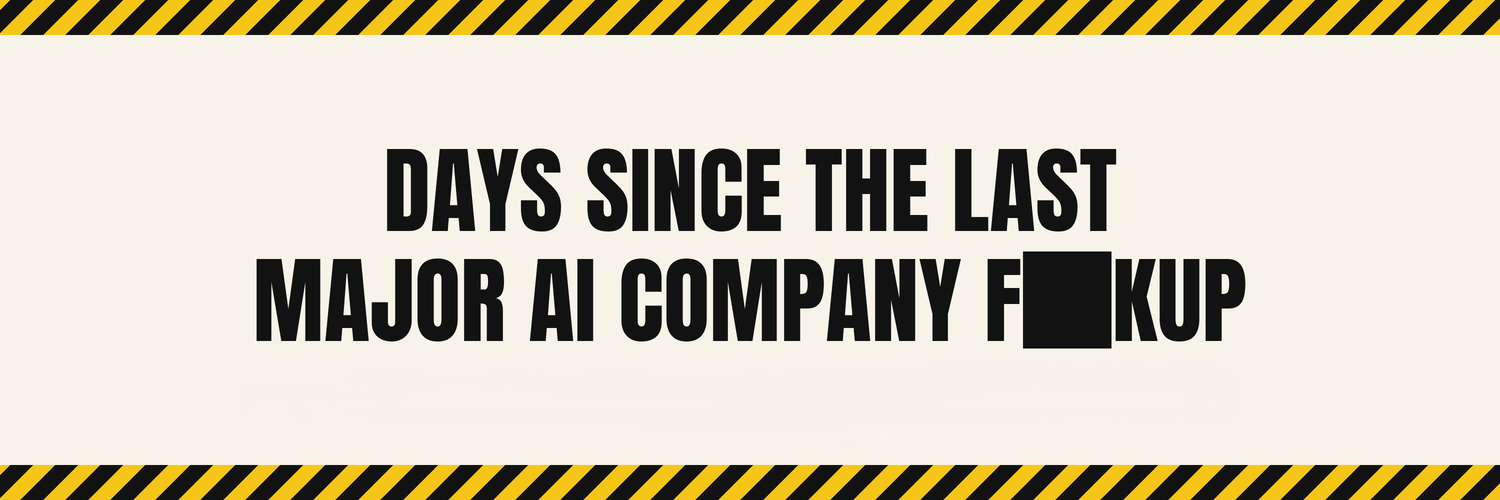
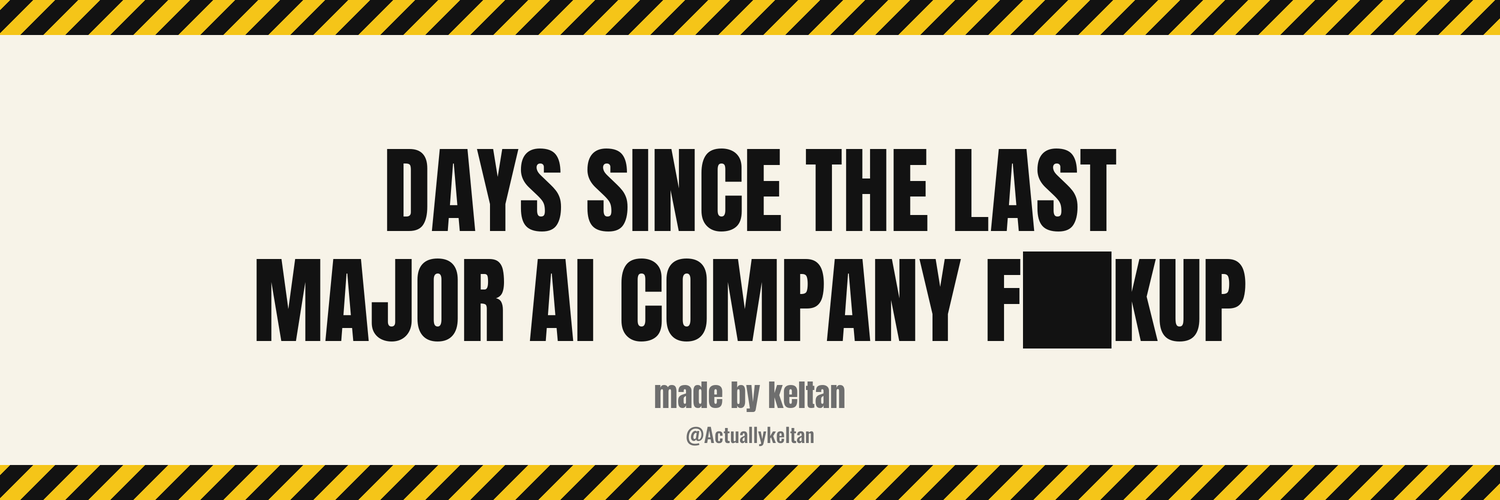
Bake keltan's header byline into the generator
He replaced the tagline with "made by keltan / @Actuallykeltan" by hand. Any
run of profile_assets.py would have overwritten that, so it now generates it -
cleanly, without the ghost of the old tagline showing through, and as a PNG
rather than a JPEG on flat cream.

Also stops tracking the detector's transient output.

Changed region(s): [[0.4293, 0.75, 0.5827, 0.9]]

diff --git a/profile_assets.py b/profile_assets.py
@@ -57,8 +57,10 @@ def header(censor: str) -> Image.Image:
     f = rs.font("Anton-Regular.ttf", 190)
     rs.draw_censored(d, W / 2, 380, "DAYS SINCE THE LAST", f, rs.BLACK, anchor="m")
     rs.draw_censored(d, W / 2, 600, f"MAJOR AI COMPANY {noun}", f, rs.BLACK, anchor="m")
-    fs = rs.font("Oswald-Bold.ttf", 56, 500)
-    d.text((W / 2, 820), "ONE NUMBER, ONCE A DAY. RESETS WHEN A FRONTIER COMPANY HAS TO APOLOGISE.", font=fs, fill=rs.GREY, anchor="mm")
+    # keltan's call: a byline, not a tagline. The bio already explains the
+    # account, and X crops the header hard on mobile.
+    d.text((W / 2, 790), "made by keltan", font=rs.font("Anton-Regular.ttf", 62), fill=rs.GREY, anchor="mm")
+    d.text((W / 2, 868), "@Actuallykeltan", font=rs.font("Oswald-Bold.ttf", 40, 500), fill=rs.GREY, anchor="mm")
     return img.resize((1500, 500), Image.LANCZOS)
 
 
